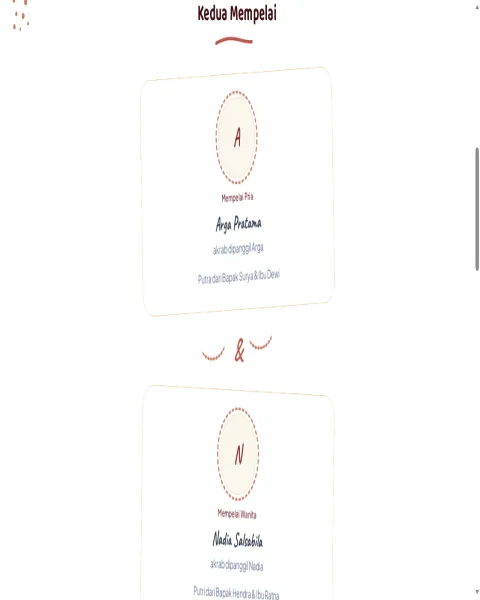
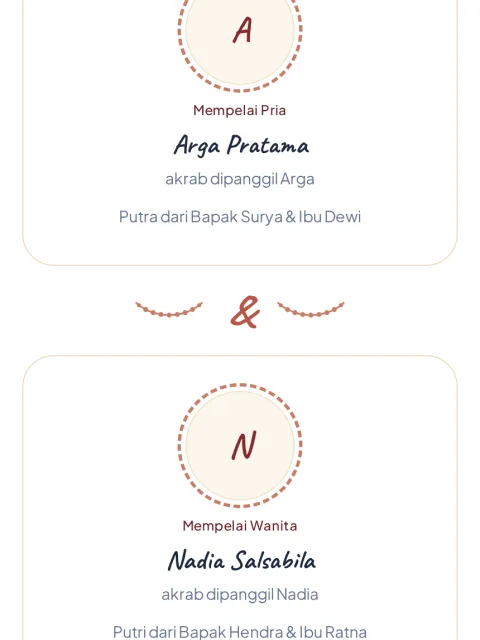
fix(galeri): thumbnail 3:4 dan potongan digeser ke badan kartu
Kartu 4:5 terasa melonjong karena tangkapan layar diambil dari viewport
16:9 sehingga yang ikut hanya irisan tengah halaman. Sekarang viewport
memakai potret ponsel 430x932 dan dipotong ke 480x640 (3:4).

Potongan digeser 26% ke bawah supaya dua kartu mempelai berikut pemisahnya
masuk ke bingkai: sebelumnya nama mempelai wanita terpotong karena porsi
atas habis dipakai judul dan jarak kosong.

Ponytail: foto lingkaran mempelai pria masih sedikit kena tepi atas pada
template bertumpuk. Ini elemen dekoratif, bukan informasi, dan memperbaikinya
butuh krop per template. Naikkan kalau kartu galeri nanti dibesarkan.

diff --git a/frontend/src/components/templates/TemplateCard.jsx b/frontend/src/components/templates/TemplateCard.jsx
@@ -118,7 +118,7 @@ export default function TemplateCard({ template, selected, onSelect, onPreview }
         onClick={onSelect}
         className="block rounded-xl focus:outline-none focus-visible:ring-2 focus-visible:ring-rose-500 focus-visible:ring-offset-2"
       >
-        <TemplatePhoto template={template} className="aspect-[4/5] w-full rounded-xl" />
+        <TemplatePhoto template={template} className="aspect-[3/4] w-full rounded-xl" />
         <span className="mt-3 flex items-center justify-between gap-2">
           <span className="text-sm font-semibold text-slate-900">{template.label}</span>
           <span className="flex gap-1" aria-hidden="true">

diff --git a/frontend/src/pages/Landing.jsx b/frontend/src/pages/Landing.jsx
@@ -616,7 +616,7 @@ function TemplateGallery({ onPreview }) {
               >
                 <TemplatePhoto
                   template={template}
-                  className="aspect-[4/5] w-full rounded-xl ring-1 ring-rose-100/80"
+                  className="aspect-[3/4] w-full rounded-xl ring-1 ring-rose-100/80"
                 />
                 <span className="block px-1.5 pt-3 pb-1">
                   <span className="block font-display text-lg text-slate-900">{template.label}</span>

diff --git a/frontend/src/pages/Templates.jsx b/frontend/src/pages/Templates.jsx
@@ -64,7 +64,7 @@ export default function TemplatesPage() {
               >
                 <TemplatePhoto
                   template={template}
-                  className="aspect-[4/5] w-full rounded-xl ring-1 ring-rose-100/80"
+                  className="aspect-[3/4] w-full rounded-xl ring-1 ring-rose-100/80"
                 />
                 <span className="block px-1.5 pt-3 pb-1">
                   <span className="block font-display text-lg text-slate-900">

diff --git a/scripts/crop-thumbs.php b/scripts/crop-thumbs.php
@@ -6,8 +6,8 @@
  *   php scripts/crop-thumbs.php
  *
  * Membaca  frontend/public/thumbs/<nama>_raw.png  (hasil tangkapan layar
- * peramban, ukuran penuh) lalu menulis <nama>.webp berukuran 480x600
- * (aspect 4/5, sama seperti kartu galeri di landing page).
+ * peramban, ukuran penuh) lalu menulis <nama>.webp berukuran 480x640
+ * (aspect 3:4, sama seperti kartu galeri di landing page).
  *
  * Kompresi WebP kualitas 82 mengikuti kebiasaan unggahan galeri di proyek ini:
  * PNG mentah ~40KB jadi ~8-15KB, sehingga enam thumbnail hanya menambah
@@ -22,7 +22,7 @@ $dir = __DIR__.'/../frontend/public/thumbs';
 $templates = ['klasik', 'minimalis', 'floral', 'ceria', 'elegan'];
 
 $lebar = 480;
-$tinggi = 600;   // 4:5, sama dengan aspect kartu galeri
+$tinggi = 640;   // 3:4 — lebih tinggi dari 4:5, tetapi tidak melonjong
 $kualitas = 82;
 
 $totalMentah = 0;
@@ -52,6 +52,14 @@ foreach ($templates as $nama) {
     $potongH = (int) min($h, $w * ($tinggi / $lebar));
     $potongW = $w;
 
+    // Mengambil dari judul section membuat kartu mempelai kedua kepotong:
+    // kartunya tinggi (foto + nama + panggilan + orang tua). Jadi potongan
+    // digeser ke bawah melewati judul, langsung ke badan kartu.
+    $offsetY = (int) round($w * 0.26);
+    if ($offsetY + $potongH > $h) {
+        $offsetY = max(0, $h - $potongH);
+    }
+
     $thumb = imagecreatetruecolor($lebar, $tinggi);
     // Latar putih lebih aman daripada hitam kalau PNG-nya ber-transparansi.
     imagefill($thumb, 0, 0, imagecolorallocate($thumb, 255, 255, 255));
@@ -59,7 +67,7 @@ foreach ($templates as $nama) {
     imagecopyresampled(
         $thumb, $img,
         0, 0,
-        0, 0,
+        0, $offsetY,
         $lebar, $tinggi,
         $potongW, $potongH
     );
